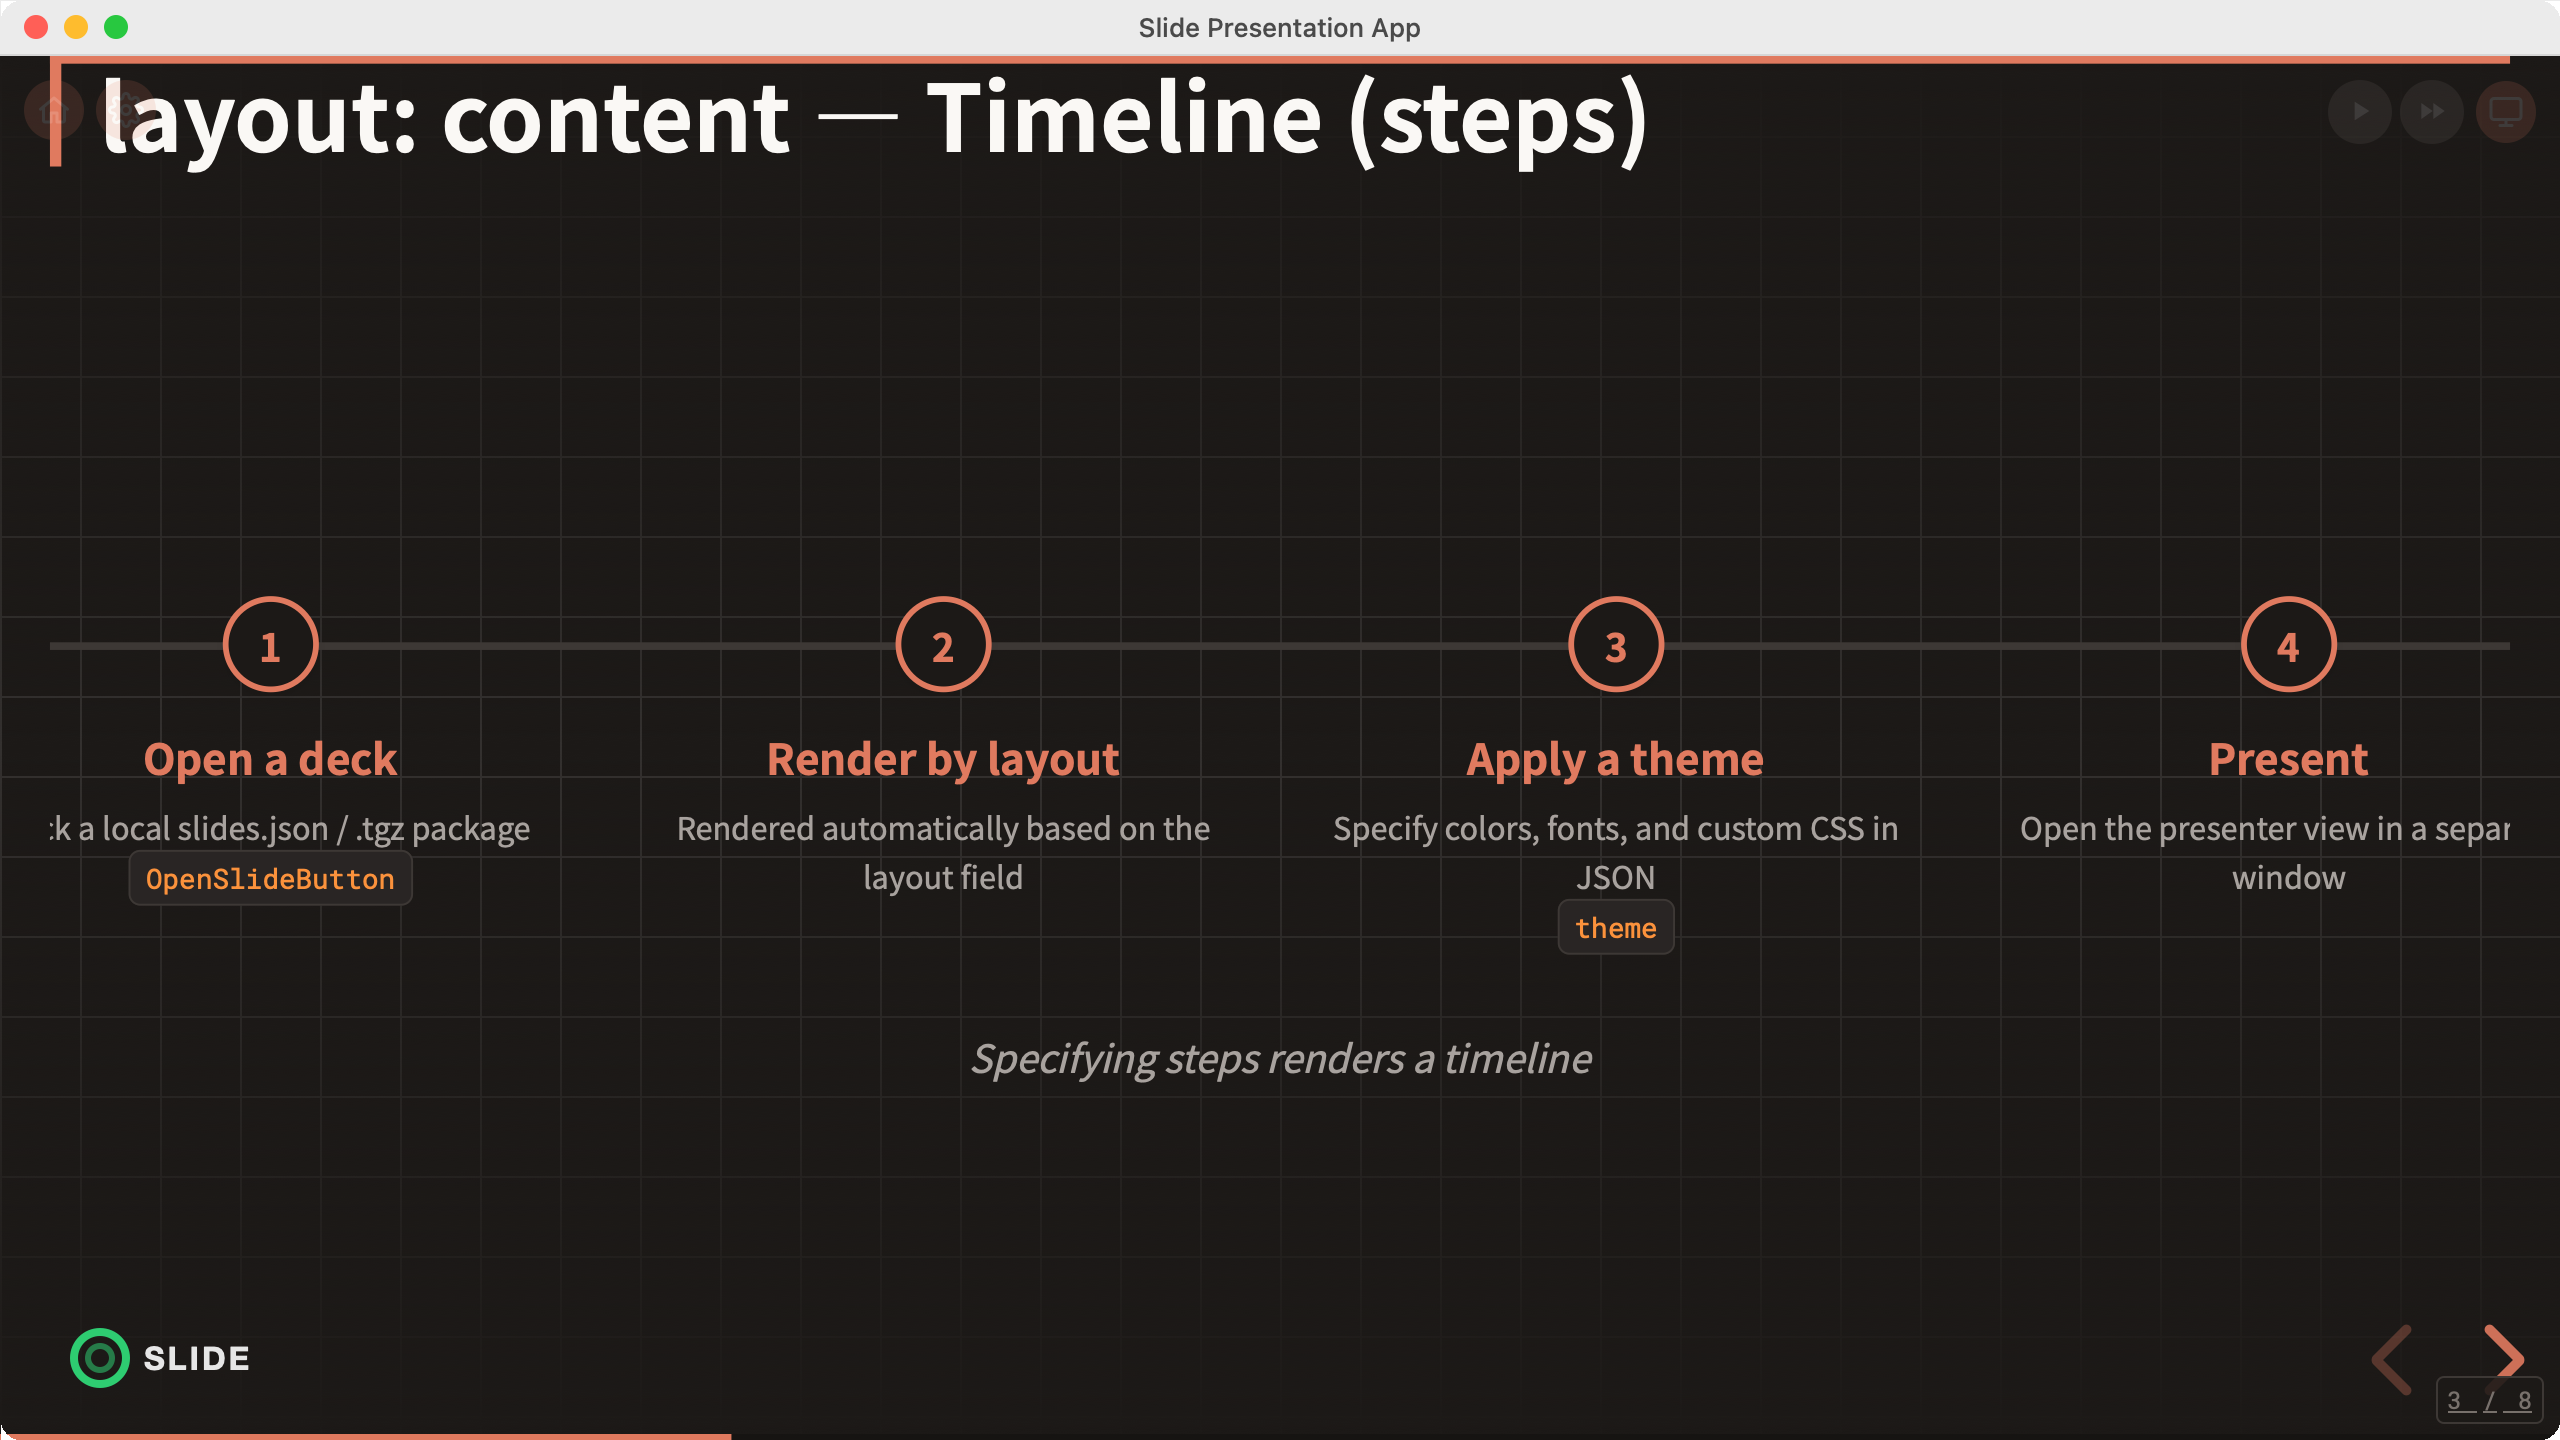
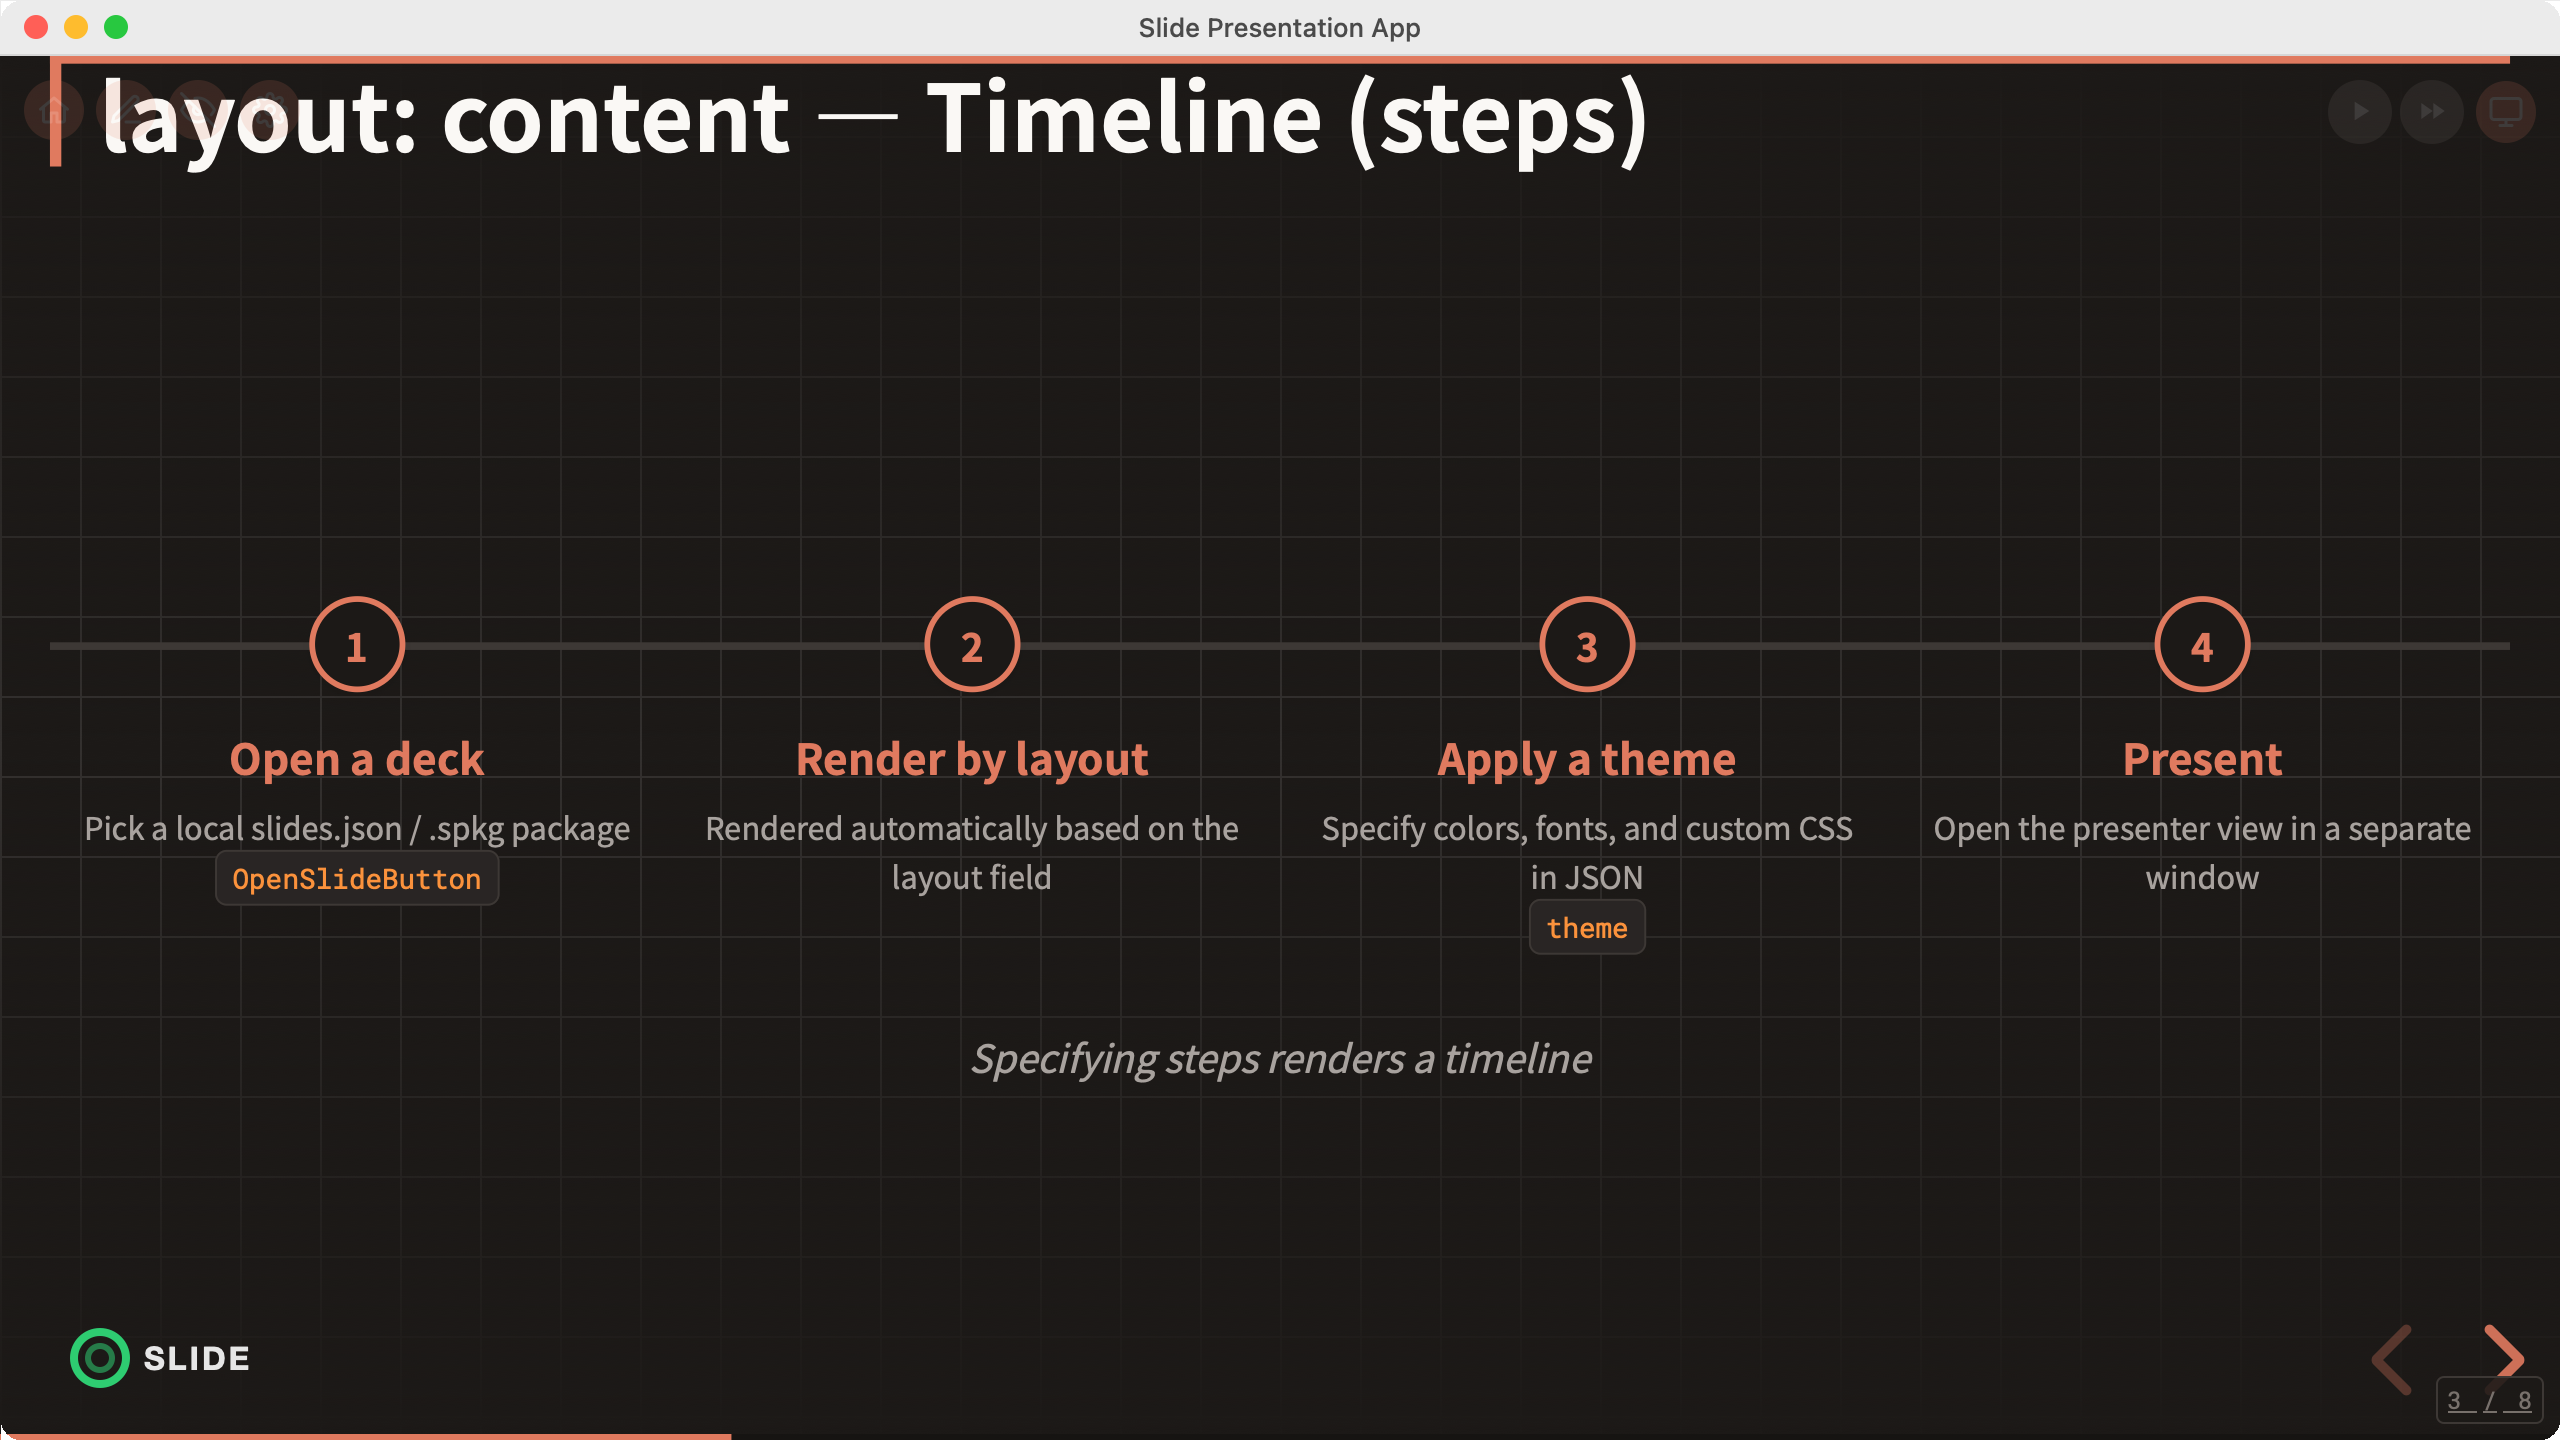
[fix] Timeline の bleed 量を親の padding と一致させ横方向のはみ出しを解消 (#116)
Timeline の bleed 量 (200px/-100px) が親 .content-area の左右 padding (40px) と食い違い、1280x720 のスライドから左右 60px はみ出して両端ステップのテキストが欠けていた問題を修正。bleed を padding と同じ CSS 変数 --content-area-padding-x から導出するようにした。

Closes #111

Changed region(s): [[0.0312, 0.4062, 0.9688, 0.6562], [0.0625, 0.0625, 0.125, 0.0938]]

diff --git a/src/styles/global.css b/src/styles/global.css
@@ -41,6 +41,10 @@
   --fixed-font-family: -apple-system, BlinkMacSystemFont, 'Segoe UI', Roboto, 'Helvetica Neue', Arial, sans-serif;
   --fixed-success: #4ade80;
   --fixed-font-code: 'Roboto Mono', monospace;
+
+  /* レイアウト変数（applyTheme の対象外）。.content-area の左右 padding。
+     Timeline のようにスライド端まで広げたい子要素が、この値を負マージンで打ち消して使う */
+  --content-area-padding-x: 40px;
 }
 
 /* 0. KEYFRAMES */
@@ -203,7 +207,7 @@ code {
   display: flex;
   flex-direction: column;
   justify-content: center;
-  padding: 0 40px;
+  padding: 0 var(--content-area-padding-x);
 }
 
 /* Title Slide */

diff --git a/src/components/Timeline.module.css b/src/components/Timeline.module.css
@@ -1,9 +1,11 @@
+/* 親（.content-area）の左右 padding を負マージンで打ち消し、スライド端まで広げる。
+   固定値にすると padding と食い違ってスライド外へはみ出すため、必ず同じ変数から導出する */
 .layout {
   display: flex;
   justify-content: space-between;
   position: relative;
-  width: calc(100% + 200px);
-  margin: 40px -100px 0;
+  width: calc(100% + var(--content-area-padding-x) * 2);
+  margin: 40px calc(var(--content-area-padding-x) * -1) 0;
 }
 
 .line {

diff --git a/CHANGELOG.ja.md b/CHANGELOG.ja.md
@@ -60,6 +60,9 @@
       途切れていた）
 - **フランス語サンプルの見切れ** — 「テーマ設定の詳細」でフランス語のみ折り返していた 2 行を短縮し、1280x720 で右カラムが
   縦に 43px あふれていたのを解消（`slides.fr.json` のみ。ja / en は元から収まっていた）
+- **タイムラインがスライドからはみ出す** — `steps` のタイムラインが親の左右へ 100px ずつ食い込む一方、`.content-area` の
+  左右 padding は 40px しかなく、1280x720 のスライドから左右 60px はみ出して両端のステップのテキストが欠けていた。食い込み量を
+  padding と同じ `--content-area-padding-x` から導出し、タイムラインがスライド幅ぴったりに収まるようにした
 - **サンプルの壊れた参照** — 実体のない音声ファイル（英語）とログファイル（`/demo-log.txt`）への参照を除去
 
 ## [1.0.0] - 2026-02-02

diff --git a/CHANGELOG.md b/CHANGELOG.md
@@ -62,6 +62,10 @@ All notable changes to this project will be documented in this file.
       the code block)
 - **Clipped content in the French sample** — Shortened the two lines on "Theme Configuration Details" that wrapped only
   in French, so its right column no longer overflows by 43px at 1280x720 (`slides.fr.json` only; ja / en already fit)
+- **Timeline overflowing the slide** — The `steps` timeline bled 100px past each side of its parent, but `.content-area`
+  only pads 40px, so it stuck out 60px beyond the 1280x720 slide and clipped the text of the outermost steps. The bleed
+  is now derived from the same `--content-area-padding-x` variable as the padding, so the timeline spans exactly the
+  slide width
 - **Broken references in the sample** — Removed references to a non-existent audio file (English) and log file
   (`/demo-log.txt`)
 
